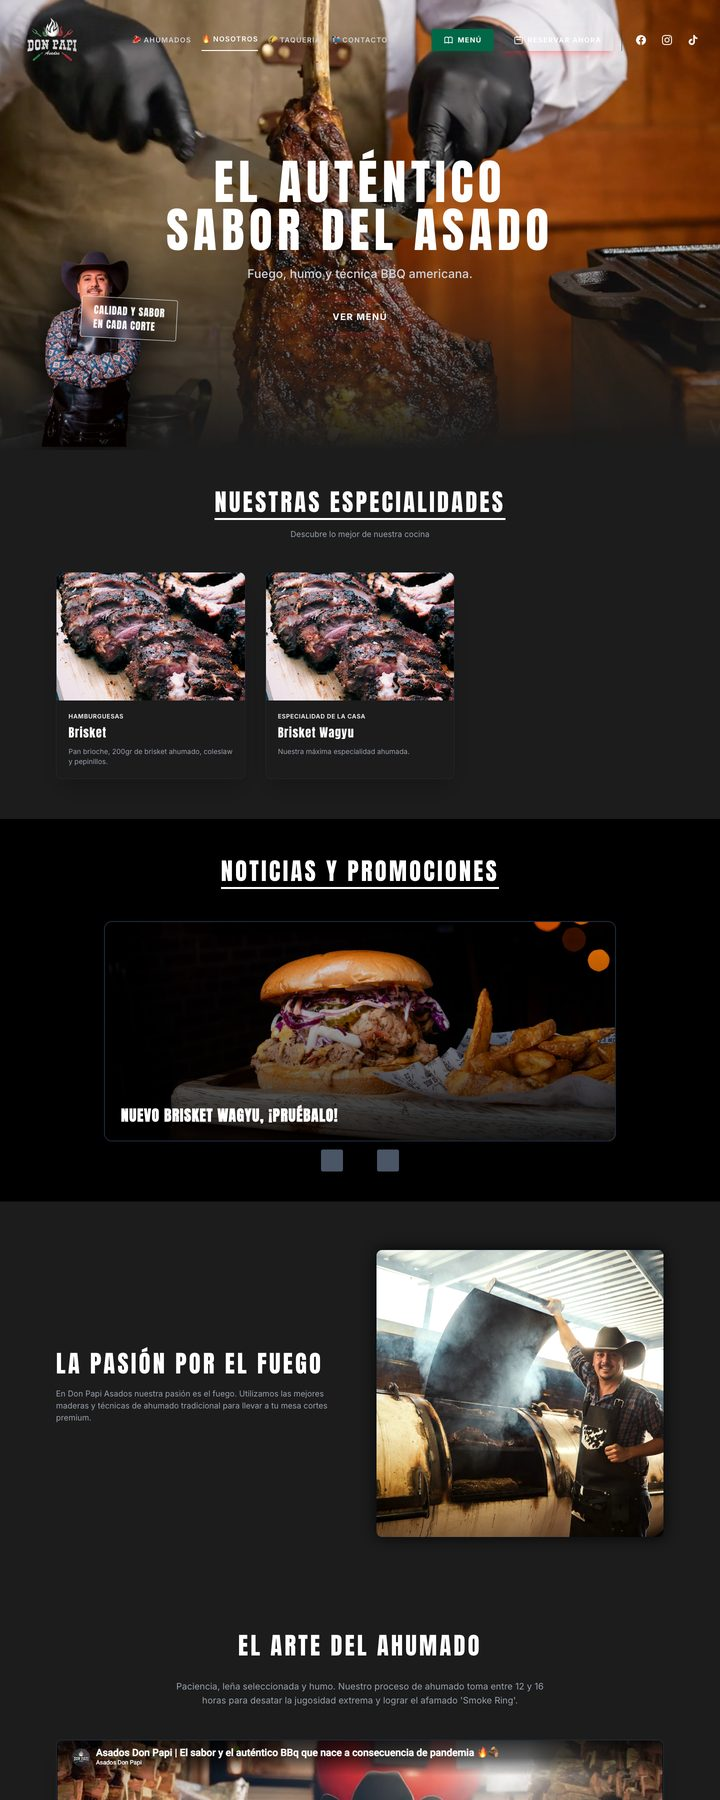
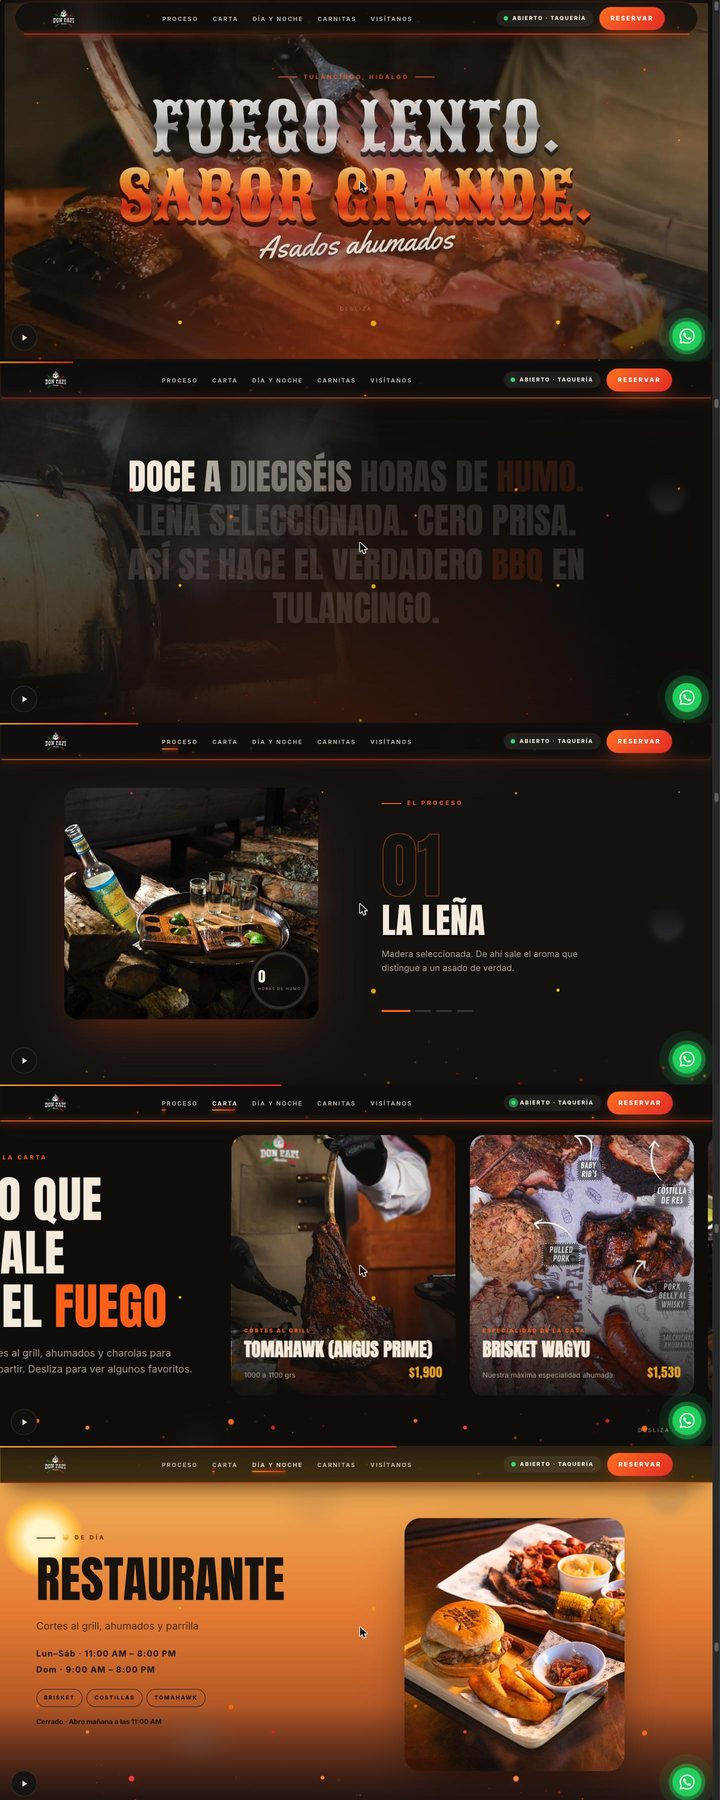
Portafolio: Asados Don Papi actualizado con el nuevo sitio (captura, descripción y etiquetas)

diff --git a/database/seeders/LandingContentSeeder.php b/database/seeders/LandingContentSeeder.php
@@ -67,7 +67,7 @@ class LandingContentSeeder extends Seeder
             ['mundofit', 'Mundo Fit', 'Gimnasio con 4 sucursales en Tulancingo: planes, sucursales y nutrición, con inscripción directa por WhatsApp.', ['Sitio web', 'Sucursales', 'Planes'], 'En desarrollo', 14, -3, null],
             ['bolivar', 'Funeraria García de Bolívar', 'Funeraria con más de 50 años de experiencia: servicios, panteones, obituario, testimonios y una guía para atravesar el duelo, con atención las 24 horas.', ['Sitio web', 'Obituario', 'Guía del duelo'], null, 21, -6, null],
             ['aguaysal', 'Agua y Sal', 'Tostadería de aguachiles y mariscos en Tulancingo: especialidades, menú por categorías con precios y reservación por WhatsApp.', ['Sitio web', 'Menú', 'Reservas'], null, 19, -10, null],
-            ['donpapi', 'Asados Don Papi', 'Asados y BBQ ahumado: menú, noticias y promociones, y reservación en línea.', ['Sitio web', 'Menú', 'Promociones'], null, 17, -4, null],
+            ['donpapi', 'Asados Don Papi', 'Asados ahumados estilo americano: carta con precios, horarios de día y de noche, taquería, carnitas un sábado al mes, promociones y reservación por WhatsApp.', ['Sitio web', 'Carta', 'Reservas'], null, 17, -4, null],
         ];
 
         foreach ($projects as $i => [$file, $name, $description, $tags, $badge, $duration, $delay, $alt]) {
